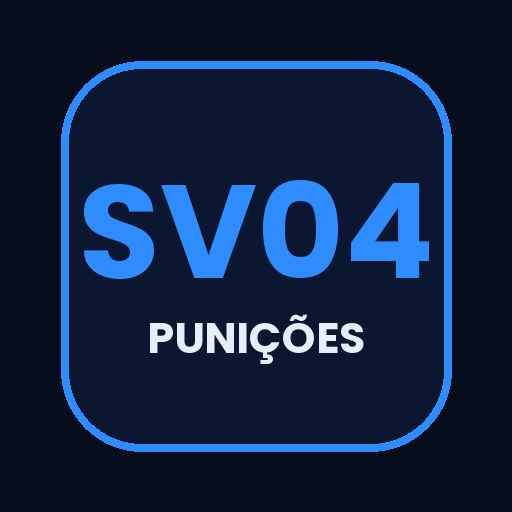
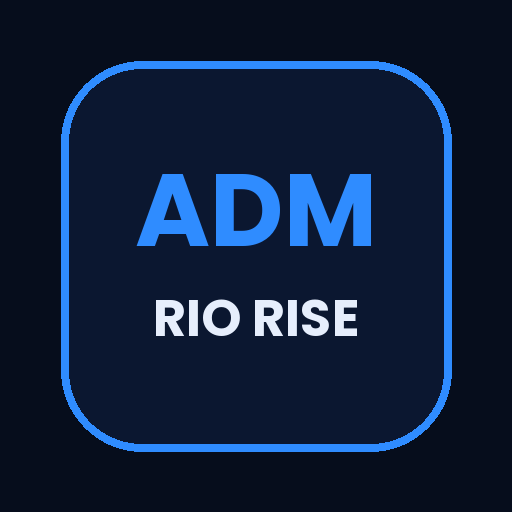
Renomeia para App para ADM Rio Rise

Changed region(s): [[0.1562, 0.3125, 0.8438, 0.7188]]

diff --git a/index.html b/index.html
@@ -4,14 +4,14 @@
 <meta charset="utf-8">
 <meta name="viewport" content="width=device-width, initial-scale=1, viewport-fit=cover">
 <meta name="author" content="Admin Amora">
-<title>Punições e Comandos SV04</title>
+<title>App ADM Rio Rise</title>
 <link rel="manifest" href="manifest.json">
 <meta name="theme-color" content="#060d1c">
 <link rel="icon" href="icone-192.png">
 <link rel="apple-touch-icon" href="icone-180.png">
 <meta name="apple-mobile-web-app-capable" content="yes">
 <meta name="mobile-web-app-capable" content="yes">
-<meta name="apple-mobile-web-app-title" content="Tabela SV04">
+<meta name="apple-mobile-web-app-title" content="ADM Rio Rise">
 <link rel="stylesheet" href="https://fonts.googleapis.com/css2?family=Oswald:wght@500;700&family=Inter:wght@400;500;600&family=JetBrains+Mono:wght@500;700&display=swap">
 <style>
 /* Para mudar punições, edite o arquivo dados.js (não precisa mexer aqui). */
@@ -118,8 +118,8 @@ header{display:flex;justify-content:space-between;align-items:flex-start;gap:14p
 <div class="wrap">
   <header>
     <div>
-      <h1>Punições <span>+</span> Comandos <span>SV04</span></h1>
-      <p>Rio Rise RP · Admin Level 1 · toque no comando para copiar</p>
+      <h1>App para ADM <span>Rio Rise</span></h1>
+      <p>Punições e comandos · Admin Level 1 · toque no comando para copiar</p>
     </div>
     <button type="button" id="instalar" hidden>📲 Instalar app</button>
   </header>
@@ -175,13 +175,13 @@ header{display:flex;justify-content:space-between;align-items:flex-start;gap:14p
       <ol>
         <li><b>Android:</b> abra o site no Chrome e toque em <b>📲 Instalar app</b> no topo. Se o botão não aparecer, toque nos <b>3 pontinhos ⋮</b> → <b>Instalar app</b> ou <b>Adicionar à tela inicial</b>.</li>
         <li><b>iPhone:</b> abra no Safari, toque em <b>Compartilhar</b> (quadrado com seta) → <b>Adicionar à Tela de Início</b>.</li>
-        <li>O ícone <b>Tabela SV04</b> aparece junto com os outros apps e abre sem a barra do navegador. Funciona mesmo sem internet, com a última versão salva.</li>
+        <li>O ícone <b>ADM Rio Rise</b> aparece junto com os outros apps e abre sem a barra do navegador. Funciona mesmo sem internet, com a última versão salva.</li>
       </ol>
 
       <h3>Usar flutuando por cima do jogo (Android)</h3>
       <ol>
-        <li>Abra o app <b>Tabela SV04</b> e depois o jogo.</li>
-        <li>Abra os <b>apps recentes</b>, toque no ícone do Tabela SV04 em cima da janelinha e escolha <b>Abrir em janela pop-up</b> / <b>Janela flutuante</b> (o nome muda conforme a marca).</li>
+        <li>Abra o app <b>ADM Rio Rise</b> e depois o jogo.</li>
+        <li>Abra os <b>apps recentes</b>, toque no ícone do ADM Rio Rise em cima da janelinha e escolha <b>Abrir em janela pop-up</b> / <b>Janela flutuante</b> (o nome muda conforme a marca).</li>
         <li>A tabela fica por cima do jogo. Em janela pequena ela entra sozinha no <b>modo compacto</b>. Dá para minimizar numa bolinha no canto e tocar quando precisar.</li>
       </ol>
 
@@ -232,7 +232,7 @@ header{display:flex;justify-content:space-between;align-items:flex-start;gap:14p
   <div id="avisos"></div>
   </div>
 
-  <footer>SV04 · Organização e respeito sempre<br>Criado por <b>Admin Amora</b></footer>
+  <footer>Rio Rise RP · Organização e respeito sempre<br>Criado por <b>Admin Amora</b></footer>
 </div>
 
 <!-- Carrega sempre a versão mais nova do dados.js -->

diff --git a/admin.html b/admin.html
@@ -4,7 +4,7 @@
 <meta charset="utf-8">
 <meta name="viewport" content="width=device-width, initial-scale=1, viewport-fit=cover">
 <meta name="robots" content="noindex">
-<title>Painel Admin SV04</title>
+<title>Painel Admin Rio Rise</title>
 <link rel="stylesheet" href="https://fonts.googleapis.com/css2?family=Oswald:wght@500;700&family=Inter:wght@400;500;600&family=JetBrains+Mono:wght@500;700&display=swap">
 <style>
 :root{
@@ -65,7 +65,7 @@ details ol{margin:8px 0 0;padding-left:20px;display:flex;flex-direction:column;g
 <body>
 <div class="wrap">
   <header>
-    <h1>Painel <span>Admin</span> SV04</h1>
+    <h1>Painel <span>Admin</span> Rio Rise</h1>
     <p class="sub">Área restrita para editar a tabela. <a href="./">Voltar para a tabela</a></p>
   </header>
 
@@ -448,7 +448,7 @@ function gerar() {
   const limpa = m => Object.fromEntries(Object.entries(m).filter(([k, v]) => v && (usados.has(k) || usados.has(curto(k)))));
   const sig = limpa(D.SIG), pch = limpa(D.PCH);
   return `/* =====================================================================
-   TABELA SV04 — ARQUIVO DE DADOS
+   APP ADM RIO RISE — ARQUIVO DE DADOS
    ---------------------------------------------------------------------
    O jeito mais fácil de editar é pelo Painel Admin (admin.html).
    Se editar por aqui: troque só o texto entre aspas e não apague

diff --git a/sw.js b/sw.js
@@ -1,5 +1,5 @@
-/* App da Tabela SV04: busca sempre a versão nova; sem internet, usa a última salva. */
-const CACHE = "tabela-sv04-v1";
+/* App ADM Rio Rise: busca sempre a versão nova; sem internet, usa a última salva. */
+const CACHE = "adm-riorise-v2";
 const BASE = ["./", "index.html", "dados.js", "manifest.json", "icone-192.png", "icone-512.png"];
 self.addEventListener("install", e => { e.waitUntil(caches.open(CACHE).then(c => c.addAll(BASE)).catch(() => {})); self.skipWaiting(); });
 self.addEventListener("activate", e => { e.waitUntil(caches.keys().then(ks => Promise.all(ks.filter(k => k !== CACHE).map(k => caches.delete(k))))); self.clients.claim(); });
